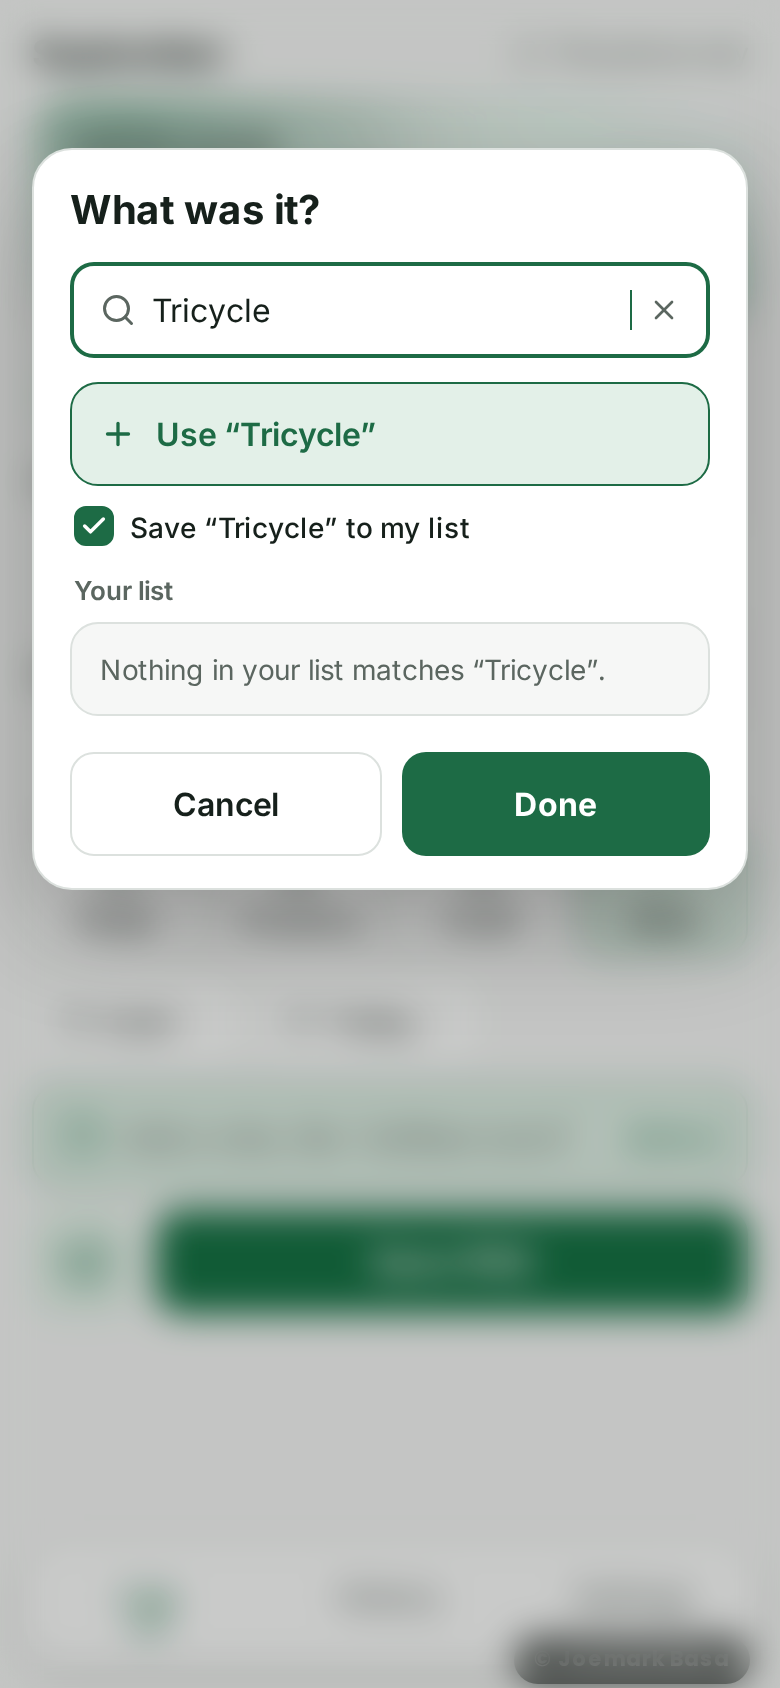
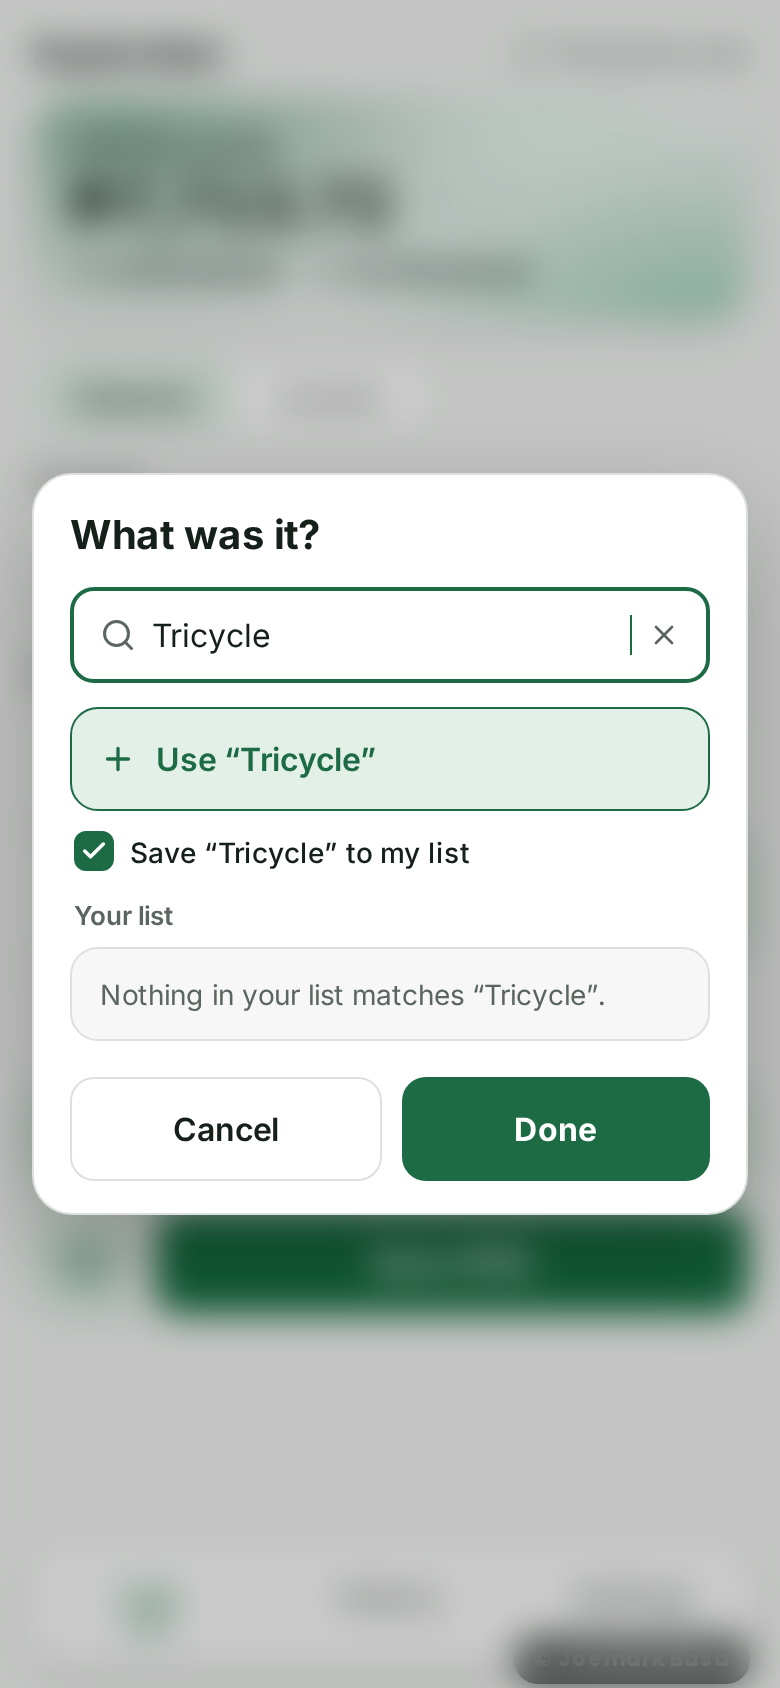
Mockups 3.1 round 3: Other pop-up centered, pin names, most used first
Claude-Session: https://claude.ai/code/session_015nXdEW66MzNZpF9pMsWtRi

diff --git a/docs/mockups/3.1/mock.html b/docs/mockups/3.1/mock.html
@@ -111,11 +111,11 @@ svg.i{fill:none;stroke:currentColor;stroke-linecap:round;stroke-linejoin:round;f
 .faq .ans{padding:0 16px 14px 16px;font-size:14.5px;line-height:21px;color:var(--muted);font-weight:400}
 .faq .open{background:var(--accentSoft)}
 .search{height:44px;border:1px solid var(--border);border-radius:12px;background:var(--surface);display:flex;align-items:center;gap:8px;padding:0 12px;color:var(--muted);font-size:15px;margin-top:14px}
-.odlg{position:absolute;left:16px;right:16px;top:74px;background:var(--surface);border:1px solid var(--border);border-radius:20px;padding:18px 18px 16px;box-shadow:0 20px 50px rgba(0,0,0,.25)}
+.odlg{position:absolute;left:16px;right:16px;top:50%;transform:translateY(-50%);background:var(--surface);border:1px solid var(--border);border-radius:20px;padding:18px 18px 16px;box-shadow:0 20px 50px rgba(0,0,0,.25)}
 .odlg h3{font-size:20px;font-weight:700}
 .olab{display:flex;justify-content:space-between;align-items:center;font-size:13px;font-weight:600;color:var(--muted);margin:14px 2px 8px}
 .obox{position:relative;height:266px;border:1px solid var(--border);border-radius:14px;overflow:hidden;background:var(--bg)}
-.orow{display:flex;align-items:center;gap:12px;height:48px;padding:0 30px 0 14px;border-top:1px solid var(--border);font-size:16px;color:var(--text)}
+.orow{display:flex;align-items:center;gap:12px;height:48px;padding:0 22px 0 14px;border-top:1px solid var(--border);font-size:16px;color:var(--text)}
 .orow:first-child{border-top:0}
 .orow .ic{color:var(--muted);display:flex}
 .orow.on{background:var(--accentSoft);font-weight:600}
@@ -124,6 +124,9 @@ svg.i{fill:none;stroke:currentColor;stroke-linecap:round;stroke-linejoin:round;f
 .otrack{position:absolute;top:6px;bottom:6px;right:5px;width:6px;border-radius:3px;background:var(--border);opacity:.7}
 .othumb{position:absolute;right:5px;width:6px;border-radius:3px;background:var(--muted)}
 .oadd{display:flex;align-items:center;gap:10px;height:52px;padding:0 14px;border:1.5px solid var(--accent);border-radius:14px;background:var(--accentSoft);color:var(--accent);font-size:16px;font-weight:600;margin-top:12px}
+.opin{width:36px;height:36px;border-radius:10px;display:flex;align-items:center;justify-content:center;color:var(--muted);opacity:.75}
+.opin.on{color:var(--accent);background:var(--accentSoft);opacity:1}
+.osec{font-size:12px;font-weight:700;letter-spacing:.04em;text-transform:uppercase;color:var(--muted);padding:9px 14px 5px;background:var(--bg)}
 .oempty{font-size:14px;color:var(--muted);padding:14px}
 .backhint{position:absolute;left:50%;bottom:86px;transform:translateX(-50%);background:var(--text);color:var(--bg);font-size:14px;font-weight:600;padding:10px 16px;border-radius:22px;white-space:nowrap}
 </style></head><body>
@@ -178,6 +181,7 @@ const IC = {
  palette:'<circle cx="13.5" cy="6.5" r=".5" fill="currentColor"/><circle cx="17.5" cy="10.5" r=".5" fill="currentColor"/><circle cx="8.5" cy="7.5" r=".5" fill="currentColor"/><circle cx="6.5" cy="12.5" r=".5" fill="currentColor"/><path d="M12 2C6.5 2 2 6.5 2 12s4.5 10 10 10c.926 0 1.648-.746 1.648-1.688 0-.437-.18-.835-.437-1.125-.29-.289-.438-.652-.438-1.125a1.64 1.64 0 0 1 1.668-1.668h1.996c3.051 0 5.555-2.503 5.555-5.554C21.965 6.012 17.461 2 12 2z"/>',
  check:'<path d="M20 6 9 17l-5-5"/>',
  x:'<path d="M18 6 6 18"/><path d="m6 6 12 12"/>',
+ pin:'<path d="M12 17v5"/><path d="M9 10.76a2 2 0 0 1-1.11 1.79l-1.78.9A2 2 0 0 0 5 15.24V16a1 1 0 0 0 1 1h12a1 1 0 0 0 1-1v-.76a2 2 0 0 0-1.11-1.79l-1.78-.9A2 2 0 0 1 15 10.76V7a1 1 0 0 1 1-1 2 2 0 0 0 0-4H8a2 2 0 0 0 0 4 1 1 0 0 1 1 1z"/>',
  tag:'<path d="M12.586 2.586A2 2 0 0 0 11.172 2H4a2 2 0 0 0-2 2v7.172a2 2 0 0 0 .586 1.414l8.704 8.704a2.426 2.426 0 0 0 3.42 0l6.58-6.58a2.426 2.426 0 0 0 0-3.42z"/><circle cx="7.5" cy="7.5" r=".5" fill="currentColor"/>',
  pen:'<path d="M21.174 6.812a1 1 0 0 0-3.986-3.987L3.842 16.174a2 2 0 0 0-.5.83l-1.321 4.352a.5.5 0 0 0 .623.622l4.353-1.32a2 2 0 0 0 .83-.497z"/><path d="m15 5 4 4"/>',
  pig:'<path d="M11 17h3v2a1 1 0 0 0 1 1h2a1 1 0 0 0 1-1v-3a3.16 3.16 0 0 0 2-2h1a1 1 0 0 0 1-1v-2a1 1 0 0 0-1-1h-1a5 5 0 0 0-2-4V3a4 4 0 0 0-3.2 1.6l-.3.4H11a6 6 0 0 0-6 6v1a5 5 0 0 0 2 4v3a1 1 0 0 0 1 1h2a1 1 0 0 0 1-1z"/><path d="M16 10h.01"/><path d="M2 8v1a2 2 0 0 0 2 2h1"/>',
@@ -277,19 +281,26 @@ function faqSheet(){
    <div class="card faq" style="margin-top:12px">${rows}</div></div>`;
 }
 
-const MYLIST = ['Haircut','Parking','Coffee','Condo dues','Cooking gas','Pets','Laundry','Gym','Gifts','Rent','Tuition','Netflix'];
+// Most used first (Joe v3.1 round 2); pinned ones sit on top whatever their use.
+const MYLIST = ['Haircut','Tuition','Laundry','Condo dues','Cooking gas','Gym','Pets','Gifts','Rent','Netflix','Coffee','Parking'];
+const PINNED = ['Coffee','Parking'];
 function otherDlg(q, typed){
   const ql = (q||'').toLowerCase();
-  const hits = MYLIST.filter(n => !ql || n.toLowerCase().includes(ql));
+  const match = n => !ql || n.toLowerCase().includes(ql);
+  const pinned = PINNED.filter(match), rest = MYLIST.filter(n => !PINNED.includes(n) && match(n));
   const hl = n => { if(!ql) return n; const i=n.toLowerCase().indexOf(ql); return n.slice(0,i)+'<mark>'+n.slice(i,i+ql.length)+'</mark>'+n.slice(i+ql.length); };
-  const rows = hits.map(n => `<div class="orow"><span class="ic">${ic('tag',18)}</span><span style="flex:1">${hl(n)}</span></div>`).join('');
-  const scroll = hits.length > 5;
-  const thumbH = scroll ? Math.max(40, Math.round(254 * 5.5 / hits.length)) : 0;
+  const row = (n, on) => `<div class="orow"><span class="ic">${ic('tag',18)}</span><span style="flex:1">${hl(n)}</span><span class="opin ${on?'on':''}">${ic('pin',17,2,on?'fill="currentColor"':'')}</span></div>`;
+  let rows = '';
+  if (pinned.length) rows += `<div class="osec">Pinned</div>` + pinned.map(n => row(n, true)).join('');
+  if (rest.length) rows += `<div class="osec">${ql ? 'In your list' : 'Most used'}</div>` + rest.map(n => row(n, false)).join('');
+  const total = pinned.length + rest.length;
+  const scroll = total > 4;
+  const thumbH = scroll ? Math.max(40, Math.round(254 * 4.6 / (total + 1.5))) : 0;
   const field = `<div class="field focus" style="margin-top:14px">${ic('search',18,2,'style="color:var(--muted)"')}<span style="flex:1;${q?'':'color:var(--muted)'}">${q||'Search, or type a new one'}</span>${q?`<span style="width:1.5px;height:20px;background:var(--accent)"></span>${ic('x',16,2,'style="color:var(--muted)"')}`:''}</div>`;
   const add = typed ? `<div class="oadd">${ic('plus',18,2.2)}<span style="flex:1">Use “${q}”</span></div>
      <div class="check" style="margin:10px 2px 0"><div class="box on">${ic('check',14,3)}</div>Save “${q}” to my list</div>` : '';
-  const list = hits.length
-    ? `<div class="olab"><span>${q ? 'In your list' : 'Your list'}</span><span>${hits.length}</span></div><div class="obox">${rows}${scroll?`<div class="otrack"></div><div class="othumb" style="top:6px;height:${thumbH}px"></div>`:''}</div>`
+  const list = total
+    ? `<div class="olab"><span>Your list · tap ${ic('pin',12,2.2,'style="vertical-align:-1px"')} to keep one on top</span><span>${total}</span></div><div class="obox">${rows}${scroll?`<div class="otrack"></div><div class="othumb" style="top:6px;height:${thumbH}px"></div>`:''}</div>`
     : `<div class="olab"><span>Your list</span></div><div class="obox" style="height:auto"><div class="oempty">Nothing in your list matches “${q}”.</div></div>`;
   return `<div class="veil"></div><div class="odlg"><h3>What was it?</h3>${field}${add}${list}
     <div class="row2"><div class="btn out">Cancel</div><div class="btn" style="font-size:16px;${typed?'':'opacity:.45'}">Done</div></div></div>`;

diff --git a/docs/mockups/3.1/review.html b/docs/mockups/3.1/review.html
@@ -54,26 +54,28 @@ footer{margin-top:56px;color:var(--muted);font-size:14px}
 
 <div class="wrap">
 <header>
-  <div class="eyebrow">Mockup review · round 2</div>
+  <div class="eyebrow">Mockup review · round 3</div>
   <h1>Gastos 3.1</h1>
   <p class="lede">Six updates from Joe's list, drawn as phone-size mockups in light and dark before any code is written. Screens use sample data. Nothing here is built yet; say what to change and I'll do another round.</p>
   <div class="meta">
     <span class="pill">Suggested version: 3.1</span>
     <span class="pill warn">1 small database change</span>
-    <span class="pill">Round 1 built · round 2 for review</span>
+    <span class="pill">Round 1 built · round 3 for review</span>
   </div>
   <nav class="toc" aria-label="Sections">
-    <a href="#round2">Round 2 · Your list behind Other</a><a href="#built">Built since round 1</a>
+    <a href="#round2">Round 3 · Your list behind Other</a><a href="#built">Built since round 1</a>
     <a href="#themes">1 · Color themes</a><a href="#faq">2 · FAQ</a><a href="#blur">3 · Blurred pop-ups</a>
     <a href="#back">4 · Back button</a><a href="#other">5 · “Other” label</a><a href="#note">6 · Note</a><a href="#questions">Questions</a>
   </nav>
 </header>
 
 <section id="round2">
-  <h2><small>Round 2 · for review</small>Your list lives behind “Other”</h2>
+  <h2><small>Round 3 · for review</small>Your list lives behind “Other”</h2>
   <p class="what">Right now every name you save becomes a new tile, and the grid grows by a row for every 4. In testing, 5 of your own tiles already pushed Save behind the tab bar, and 12 hid both the note and Save. In this version the main grid always keeps the original 8 tiles. Everything you've added lives in a pop-up behind <b>Other</b>.</p>
   <ul class="points">
-    <li><b>Tap Other:</b> a “What was it?” pop-up opens with a search box on top and <b>Your list</b> below it.</li>
+    <li><b>Tap Other:</b> a “What was it?” pop-up opens <b>in the middle of the screen</b>, with a search box on top and <b>Your list</b> below it.</li>
+    <li><b>Pin a name</b> with the pin on its right, and it stays in a <b>Pinned</b> group at the top. Tap the pin again to unpin it. Pins follow your account onto every phone, like the color theme.</li>
+    <li><b>Everything else is sorted by most used</b>, counted from your own entries, so your usual ones sit near the top.</li>
     <li><b>The list scrolls in its own box</b> with a scrollbar on the right. The pop-up and the page never move, so Cancel and Done stay put.</li>
     <li><b>Search as you type:</b> the list narrows to matches, with the matching letters in the theme color. Tap a name to pick it and close the pop-up.</li>
     <li><b>Something new:</b> when nothing matches, you get <b>Use “Tricycle”</b> and a tick box (on by default) to save it to your list for next time.</li>
@@ -82,15 +84,15 @@ footer{margin-top:56px;color:var(--muted);font-size:14px}
   </ul>
   <div class="shots">
     <figure><img src="img/r2-grid8-light.png" alt="Log screen with only the original 8 tiles; the Other tile reads Coffee"><figcaption>Grid stays at 8 tiles, Other shows the pick</figcaption></figure>
-    <figure><img src="img/r2-olist-light.png" alt="What was it pop-up with a search box and a scrollable list of 12 saved names with a scrollbar on the right"><figcaption>Tap Other: your list, scrollbar on the right</figcaption></figure>
-    <figure><img src="img/r2-osearch-light.png" alt="The pop-up with co typed, showing Coffee, Condo dues and Cooking gas"><figcaption>Typing “co” narrows the list</figcaption></figure>
+    <figure><img src="img/r2-olist-light.png" alt="What was it pop-up with a search box and a scrollable list of 12 saved names with a scrollbar on the right"><figcaption>Tap Other: centered, pinned on top, scrollbar on the right</figcaption></figure>
+    <figure><img src="img/r2-osearch-light.png" alt="The pop-up with co typed, showing Coffee, Condo dues and Cooking gas"><figcaption>Typing “co” narrows both groups</figcaption></figure>
     <figure><img src="img/r2-onew-light.png" alt="The pop-up with Tricycle typed, offering Use Tricycle and Save Tricycle to my list"><figcaption>A new name: use it, and save it</figcaption></figure>
     <figure><img src="img/r2-grid8-dark.png" alt="Log screen, dark"><figcaption>Grid, dark</figcaption></figure>
     <figure><img src="img/r2-olist-dark.png" alt="Your list pop-up, dark"><figcaption>Your list, dark</figcaption></figure>
     <figure><img src="img/r2-osearch-dark.png" alt="Search in the pop-up, dark"><figcaption>Search, dark</figcaption></figure>
     <figure><img src="img/r2-onew-dark.png" alt="New name in the pop-up, dark"><figcaption>New name, dark</figcaption></figure>
   </div>
-  <div class="ask"><b>For you to decide</b><p>Is this the list you pictured? Anything to change before I build it? One option: sort the list by most used instead of A to Z, so your usual ones sit on top.</p></div>
+  <div class="ask"><b>Round 3 changes</b><p>From your round 2 notes: the pop-up is now centered on the screen, names can be pinned, and the rest are sorted by most used. Pins need one more column on the settings table, added to the same <code>supabase/migration-v3.1.sql</code> your agent runs tonight, so nothing extra to run.</p></div>
 </section>
 
 <section id="built">
